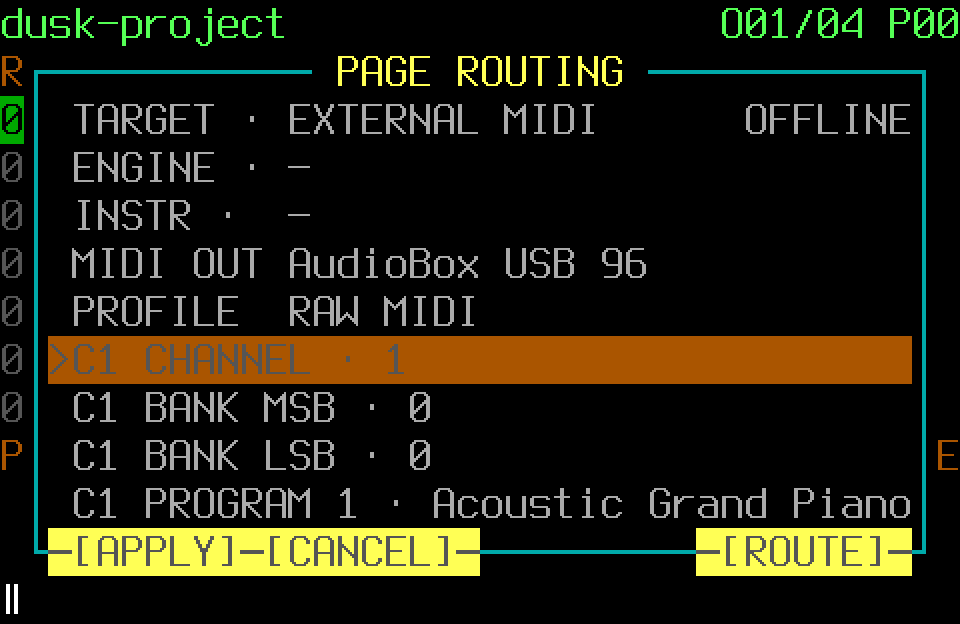
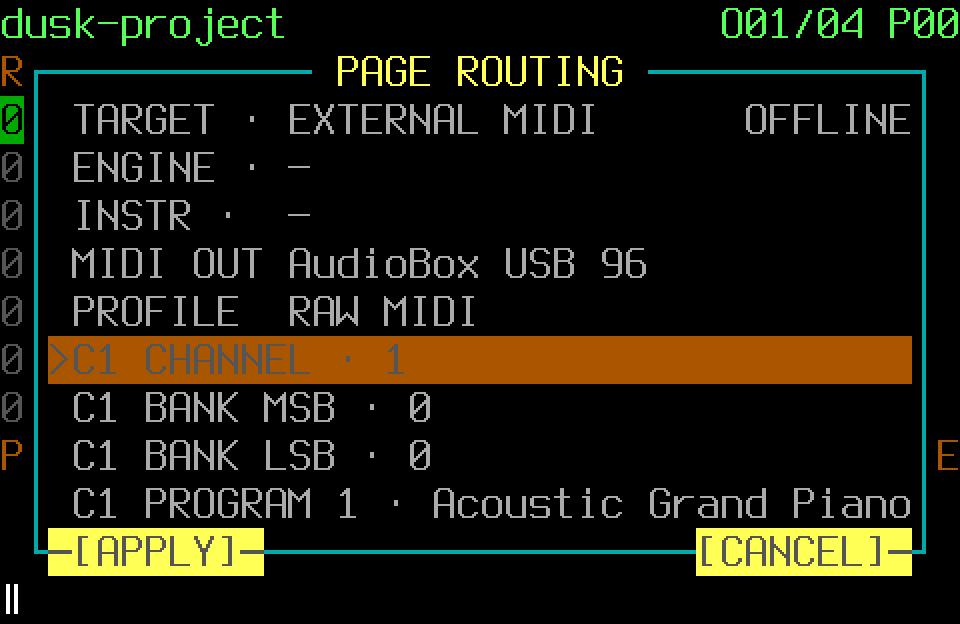
Remove duplicate route cancel control

Changed region(s): [[0.25, 0.8221, 0.5, 0.9439], [0.7188, 0.8526, 0.875, 0.9135]]

diff --git a/docs/index.html b/docs/index.html
@@ -1311,10 +1311,11 @@ and interface availability. Turn and click/Enter to activate a
 field; Back/Esc cancels that field first. Only <strong>APPLY ROUTING</strong> changes the
 Project. <strong>APPLY</strong> and <strong>CANCEL</strong> remain visible in the overlay's bottom border
 even while the longer field list scrolls; keyboard <code>A</code> and <code>C</code> invoke the same
-whole-draft actions. The same highlighted ROUTE item or Back closes and cancels
-every unconfirmed change. Back from an active field cancels only that field
-first. At 40×13 the bordered outer window is 38×11 at <code>(1,1)</code> and the usable
-inner area is 36×9 at <code>(2,2)</code>; row 13 remains the shared status row.</p>
+whole-draft actions. Once open, the ROUTE launcher position is relabeled
+<strong>CANCEL</strong>, so there is only one visible whole-draft cancel command; it or Back
+discards every unconfirmed change. Back from an active field cancels only that
+field first. At 40×13 the bordered outer window is 38×11 at <code>(1,1)</code> and the
+usable inner area is 36×9 at <code>(2,2)</code>; row 13 remains the shared status row.</p>
 <h4 id="doc-tracker--step-editing" tabindex="-1">Step editing<a class="heading-anchor" href="#doc-tracker--step-editing" aria-label="Link to Step editing">#</a></h4>
 <p>Step entry accepts notes and chords from any configured musical input.
 <strong>TRACKS</strong> → <strong>SYS</strong> → <strong>ENTRY</strong> selects one persisted layout for each page:</p>
@@ -2012,7 +2013,7 @@ or <code>q</code> can still exit from the splash.</p>
 </tr>
 <tr>
 <td>FT2 normal</td>
-<td>The main rotary always moves rows; holding the configured encoder Shift while turning selects the previous/next column across page boundaries. Keyboard Up/Down also moves rows. The redundant Page−/Page+/Track−/Track+ buttons are gone: PLAY holds cell edit and transport, SELECT opens PAGE/PATTERN/SONG/ROUTE rotary overlays, and SYS holds panic/N00B/help/Exit. ROUTE keeps whole-draft <code>APPLY</code> and <code>CANCEL</code> visible in its bottom border while preserving the launcher; Back still cancels an active field before the whole draft.</td>
+<td>The main rotary always moves rows; holding the configured encoder Shift while turning selects the previous/next column across page boundaries. Keyboard Up/Down also moves rows. The redundant Page−/Page+/Track−/Track+ buttons are gone: PLAY holds cell edit and transport, SELECT opens PAGE/PATTERN/SONG/ROUTE rotary overlays, and SYS holds panic/N00B/help/Exit. ROUTE keeps whole-draft <code>APPLY</code> and <code>CANCEL</code> visible in its bottom border; the existing launcher position becomes the one <code>CANCEL</code> command instead of adding a duplicate. Back still cancels an active field before the whole draft.</td>
 </tr>
 <tr>
 <td>FT2 record</td>
@@ -3815,7 +3816,7 @@ Esc, to close. There is no extra controller Back item.</p>
 <p>PATTERN selects an existing Pattern and links to Pattern tools or Project Files.</p>
[1 lines of base64/hex data omitted]
 <p>SONG selects an Arrangement step and links to Arrangement or page tools.</p>
[2 lines of base64/hex data omitted]
 <p>ROUTE edits a detached page-routing draft that changes the Project only on Apply.</p>
 <h5 id="doc-menu-tracker_and_projects--sys-safety-filter-help-and-exit" tabindex="-1">SYS — safety, filter, help, and exit<a class="heading-anchor" href="#doc-menu-tracker_and_projects--sys-safety-filter-help-and-exit" aria-label="Link to SYS — safety, filter, help, and exit">#</a></h5>
[1 lines of base64/hex data omitted]
@@ -4092,7 +4093,7 @@ the reference. <code>REMOVE</code> removes only this step, not the underlying Pa
[1 lines of base64/hex data omitted]
 <p><code>PANIC</code> and <code>HELP</code> remain available. <code>EXIT</code> returns to the tracker.</p>
 <h4 id="doc-menu-tracker_and_projects--route-master-overlay" tabindex="-1">ROUTE master overlay<a class="heading-anchor" href="#doc-menu-tracker_and_projects--route-master-overlay" aria-label="Link to ROUTE master overlay">#</a></h4>
-<p><a class="repeated-image-link" href="#shot-1b2aff601a8c">ROUTE master overlay over the active Pattern (shown earlier)</a></p>
+<p><a class="repeated-image-link" href="#shot-7a13d292582c">ROUTE master overlay over the active Pattern (shown earlier)</a></p>
 <p>ROUTE is the quick transactional editor for the active Pattern page. The top
 row shows the page/master destination and its current resolved state. The next
 16 rows show channel, bank MSB, bank LSB, and program/instrument for each of the
@@ -4109,9 +4110,10 @@ Apply, the Project, runtime route, engine, transport, and recorder are otherwise
 untouched.</p>
 <p>The bottom border always shows <code>APPLY</code> and <code>CANCEL</code>, so neither whole-draft
 action depends on scrolling to the final list row. Keyboard <code>A</code> and <code>C</code> invoke
-the same actions. Pressing the highlighted <code>ROUTE</code> menu item also closes the
-overlay and cancels its whole unconfirmed draft. Back/Esc from the main list
-does the same, while Back/Esc during a field edit cancels only that field.
+the same actions. The original <code>ROUTE</code> launcher position becomes that single
+<code>CANCEL</code> command while the overlay is open; it is not duplicated. Back/Esc from
+the main list does the same, while Back/Esc during a field edit cancels only
+that field.
 Missing preferred hardware remains visible and saved as preferred; an exact
 external target stays offline or ambiguous and never uses either the
 configured hardware default or the Pattern's software synth. <code>AUTO</code> alone
@@ -14701,9 +14703,11 @@ test-target compilation was 70.48 seconds. No JACK, synth, MIDI, playback,
 recording, audible, or physical-hardware test was involved.</p>
 <p>FT2's quick ROUTE overlay now keeps whole-draft <code>APPLY</code> and <code>CANCEL</code> commands
 visible in its bottom border at native 40×13 instead of hiding Apply below 21
-scrolling fields and exposing only an ambiguous ROUTE toggle. Keyboard <code>A</code> and
-<code>C</code>, mouse, and controller commands share those exact actions; Back remains
-field-first. Playback labels MIDI-take persistence as <code>IDEA+</code>, not an
+scrolling fields and exposing only an ambiguous ROUTE toggle. The original
+launcher position becomes the single <code>CANCEL</code> command, rather than adding a
+second control for the same discard operation. Keyboard <code>A</code> and <code>C</code>, mouse,
+and controller commands share those exact actions; Back remains field-first.
+Playback labels MIDI-take persistence as <code>IDEA+</code>, not an
 instrument save, and <code>SOUNDS</code> returns directly to Presets and its visible
 <code>LOAD</code>. In-app and terminal MIDI Learn now capture the complete optional
 encoder-Shift gesture. Holding Shift, turning left and right, then releasing

diff --git a/src/ui.rs b/src/ui.rs
@@ -12664,13 +12664,6 @@ fn perform(
             a.stop_loop_preview(true);
         } else if action == Action::ApplyRouteOverlay && overlay_kind == OverlayKind::TrackerRoute {
             a.confirm_route_overlay();
-        } else if action == Action::CancelRouteOverlay && overlay_kind == OverlayKind::TrackerRoute
-        {
-            if a.mixed_engine_remap.is_some() {
-                a.cancel_mixed_engine_remap("REMAP CANCELLED · Project routing restored");
-            } else {
-                a.close_overlay(true);
-            }
         } else if action == Action::PreviewRouteDraft {
             a.preview_route_draft();
         } else if action == Action::TapTempo {
@@ -13161,7 +13154,7 @@ fn perform(
         | Action::OpenTrackerAdvanceOverlay
         | Action::OpenEntryLayoutOverlay
         | Action::OpenEffectsOverlay => a.open_overlay(action),
-        Action::ApplyRouteOverlay | Action::CancelRouteOverlay => {
+        Action::ApplyRouteOverlay => {
             unreachable!("route overlay actions are handled before contextual dispatch")
         }
         Action::PreviewRouteDraft => a.preview_route_draft(),
@@ -21266,10 +21259,10 @@ mod tests {
         a.open_overlay(Action::OpenRouteOverlay);
         let buffer = render_app(&mut a, 40, 20);
         let row = row_text(&buffer, 18);
-        assert_eq!(row.matches('[').count(), 3);
+        assert_eq!(row.matches('[').count(), 2);
         assert!(row.contains("APPLY"));
         assert!(row.contains("CANCEL"));
-        assert!(row.contains("ROUTE"));
+        assert!(!row.contains("ROUTE"));
         assert!(row_text(&buffer, 19).starts_with('‖'));
         assert_eq!(
             a.hits
@@ -21277,11 +21270,7 @@ mod tests {
                 .iter()
                 .map(|(_, action)| *action)
                 .collect::<Vec<_>>(),
-            vec![
-                Action::ApplyRouteOverlay,
-                Action::CancelRouteOverlay,
-                Action::OpenRouteOverlay,
-            ]
+            vec![Action::ApplyRouteOverlay, Action::OpenRouteOverlay]
         );
     }
 
@@ -21301,7 +21290,7 @@ mod tests {
         assert_eq!(buffer_cell(&buffer, 38, 11).symbol, "╝");
         assert!(row_text(&buffer, 11).contains("APPLY"));
         assert!(row_text(&buffer, 11).contains("CANCEL"));
-        assert!(row_text(&buffer, 11).contains("ROUTE"));
+        assert!(!row_text(&buffer, 11).contains("ROUTE"));
         assert!(row_text(&buffer, 12).starts_with(transport_glyph(a.transport_indicator()).0));
     }
 
@@ -21322,7 +21311,7 @@ mod tests {
             .columns[0]
             .channel = 7;
         perform(
-            Action::CancelRouteOverlay,
+            Action::OpenRouteOverlay,
             &mut cancelled,
             Path::new("/none"),
             None,

diff --git a/src/overlay.rs b/src/overlay.rs
@@ -228,15 +228,16 @@ impl OverlayState {
     /// TAP at the tempo anchor.
     pub fn controller_action(&self, item: usize) -> Option<(&'static str, Action)> {
         if self.kind == OverlayKind::TrackerRoute {
-            let mut free = (0..4).filter(|candidate| *candidate != self.launcher.item);
-            let apply = free.next().unwrap_or(0);
-            let cancel = free.next().unwrap_or(1);
+            let apply = (0..4)
+                .find(|candidate| *candidate != self.launcher.item)
+                .unwrap_or(0);
             if item == apply {
                 return Some(("APPLY", Action::ApplyRouteOverlay));
             }
-            if item == cancel {
-                return Some(("CANCEL", Action::CancelRouteOverlay));
+            if item == self.launcher.item {
+                return Some(("CANCEL", self.launcher.action));
             }
+            return None;
         }
         if self.launcher.item == item {
             return Some((self.launcher.label, self.launcher.action));

diff --git a/src/navigation.rs b/src/navigation.rs
@@ -139,7 +139,6 @@ pub enum Action {
     OpenSongOverlay,
     OpenRouteOverlay,
     ApplyRouteOverlay,
-    CancelRouteOverlay,
     PreviewRouteDraft,
     OpenPatternLengthOverlay,
     OpenNoteLengthOverlay,

diff --git a/docs/CONTROLLER_INTERFACE.md b/docs/CONTROLLER_INTERFACE.md
@@ -44,7 +44,7 @@ or `q` can still exit from the splash.
 | MTR | With the final bus enabled: choose Synth/Loop/Input, adjust its bounded smoothed level, toggle mute, inspect final sample/true peaks and linked reduction, and start/stop the callback-boundary final stereo recording. At native 40×13 the body reserves its final rows for recording integrity and a doubled-monitoring refusal; healthy sources omit `READY`/`ON`. With the bus disabled, the passive CPU/VU view puts an unavailable reason in the VU heading instead of clipping it below the body. NAV opens either the selected source/AUX/master rack overlay or the fixed Project MASTER STRIP. |
 | Playback | Inspect held notes/chords and aligned decimal MIDI strike velocities, with keyboard state added only when the terminal is taller than native 40×13; toggle the N00B filter in place and, while enabled, turn the master rotary through all root plus major/natural-minor choices shown by a compact `SCALE` control; reset the 12 mapped parameters in place; open and return from the FX rack without stopping the sound; record/play and use the explicit `IDEA+` command to save a new Idea; use `SOUNDS` to return directly to the Presets catalog and its visible `LOAD`; stop/panic; contextual help; return to Presets. N00B never replaces the Player body. Synthv1 and Moj Sint each render their own 12-control three-by-four layout and use the same physical pickup crossing path without sharing parameter identity. |
 | Ideas | Previous/next/first/last idea; inspect, load, play, delete, record, and save; panic; contextual help; Exit to Home. |
-| FT2 normal | The main rotary always moves rows; holding the configured encoder Shift while turning selects the previous/next column across page boundaries. Keyboard Up/Down also moves rows. The redundant Page−/Page+/Track−/Track+ buttons are gone: PLAY holds cell edit and transport, SELECT opens PAGE/PATTERN/SONG/ROUTE rotary overlays, and SYS holds panic/N00B/help/Exit. ROUTE keeps whole-draft `APPLY` and `CANCEL` visible in its bottom border while preserving the launcher; Back still cancels an active field before the whole draft. |
+| FT2 normal | The main rotary always moves rows; holding the configured encoder Shift while turning selects the previous/next column across page boundaries. Keyboard Up/Down also moves rows. The redundant Page−/Page+/Track−/Track+ buttons are gone: PLAY holds cell edit and transport, SELECT opens PAGE/PATTERN/SONG/ROUTE rotary overlays, and SYS holds panic/N00B/help/Exit. ROUTE keeps whole-draft `APPLY` and `CANCEL` visible in its bottom border; the existing launcher position becomes the one `CANCEL` command instead of adding a duplicate. Back still cancels an active field before the whole draft. |
 | FT2 record | Record quantized note-ons and, when enabled for the page, release-based note-offs through the selected page's target and persisted Manual, One-column, or Drum-auto layout. Stopped REC loops the selected Pattern; REC during Play punches into the Arrangement. Exact page/lane owners survive cursor moves and boundaries. Shift-rotary column turns are ignored while recorded notes are held; Edit note length does not affect REC. |
 | FT2 edit | A contextual four-page command set only: EDIT has cell edit, blank/skip, erase, and note off; SET has independent 1/1–1/128 LENGTH and 0–32 ADD selectors plus column movement; SELECT has page and route selection; SYS has panic, N00B, help, and a one-level Exit back to normal FT2. It contains no Play/Record/Edit mode duplicates. Manual writes from the selected column, One column uses its C1–C4 anchor, and Drum auto allocates simultaneous hits without moving the cursor. |
 | FT2 N00B | Independent on/off scale filter layered over Play, Record, and Edit on a melodic page, using the scale selected on Player. Accepted notes keep their pitch; rejected notes stay silent. Play remains non-writing, while Record/Edit write only accepted notes. Toggling N00B is immediate, opens no screen, preserves the current mode, and moving to Drums turns only the filter off. |

diff --git a/docs/WORKSPACE_HANDOFF.md b/docs/WORKSPACE_HANDOFF.md
@@ -53,9 +53,11 @@ recording, audible, or physical-hardware test was involved.
 
 FT2's quick ROUTE overlay now keeps whole-draft `APPLY` and `CANCEL` commands
 visible in its bottom border at native 40×13 instead of hiding Apply below 21
-scrolling fields and exposing only an ambiguous ROUTE toggle. Keyboard `A` and
-`C`, mouse, and controller commands share those exact actions; Back remains
-field-first. Playback labels MIDI-take persistence as `IDEA+`, not an
+scrolling fields and exposing only an ambiguous ROUTE toggle. The original
+launcher position becomes the single `CANCEL` command, rather than adding a
+second control for the same discard operation. Keyboard `A` and `C`, mouse,
+and controller commands share those exact actions; Back remains field-first.
+Playback labels MIDI-take persistence as `IDEA+`, not an
 instrument save, and `SOUNDS` returns directly to Presets and its visible
 `LOAD`. In-app and terminal MIDI Learn now capture the complete optional
 encoder-Shift gesture. Holding Shift, turning left and right, then releasing

diff --git a/docs/TRACKER.md b/docs/TRACKER.md
@@ -172,10 +172,11 @@ and interface availability. Turn and click/Enter to activate a
 field; Back/Esc cancels that field first. Only **APPLY ROUTING** changes the
 Project. **APPLY** and **CANCEL** remain visible in the overlay's bottom border
 even while the longer field list scrolls; keyboard `A` and `C` invoke the same
-whole-draft actions. The same highlighted ROUTE item or Back closes and cancels
-every unconfirmed change. Back from an active field cancels only that field
-first. At 40×13 the bordered outer window is 38×11 at `(1,1)` and the usable
-inner area is 36×9 at `(2,2)`; row 13 remains the shared status row.
+whole-draft actions. Once open, the ROUTE launcher position is relabeled
+**CANCEL**, so there is only one visible whole-draft cancel command; it or Back
+discards every unconfirmed change. Back from an active field cancels only that
+field first. At 40×13 the bordered outer window is 38×11 at `(1,1)` and the
+usable inner area is 36×9 at `(2,2)`; row 13 remains the shared status row.
 
 ## Step editing
 

diff --git a/docs/menu/TRACKER_AND_PROJECTS.md b/docs/menu/TRACKER_AND_PROJECTS.md
@@ -502,9 +502,10 @@ untouched.
 
 The bottom border always shows `APPLY` and `CANCEL`, so neither whole-draft
 action depends on scrolling to the final list row. Keyboard `A` and `C` invoke
-the same actions. Pressing the highlighted `ROUTE` menu item also closes the
-overlay and cancels its whole unconfirmed draft. Back/Esc from the main list
-does the same, while Back/Esc during a field edit cancels only that field.
+the same actions. The original `ROUTE` launcher position becomes that single
+`CANCEL` command while the overlay is open; it is not duplicated. Back/Esc from
+the main list does the same, while Back/Esc during a field edit cancels only
+that field.
 Missing preferred hardware remains visible and saved as preferred; an exact
 external target stays offline or ambiguous and never uses either the
 configured hardware default or the Pattern's software synth. `AUTO` alone
